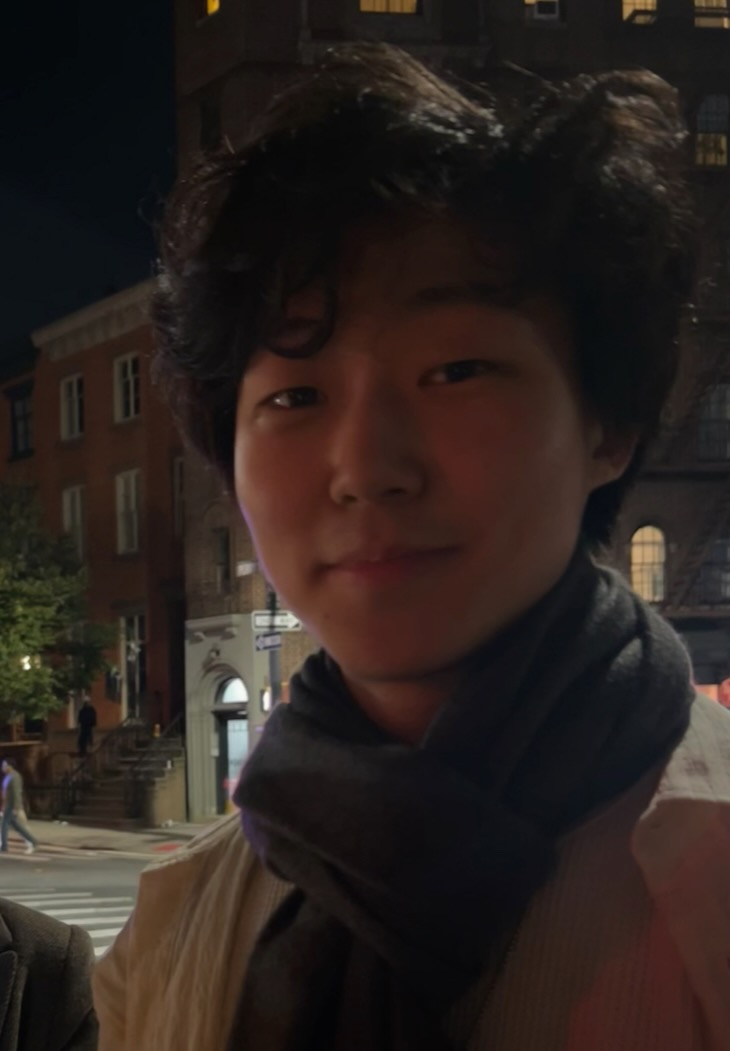
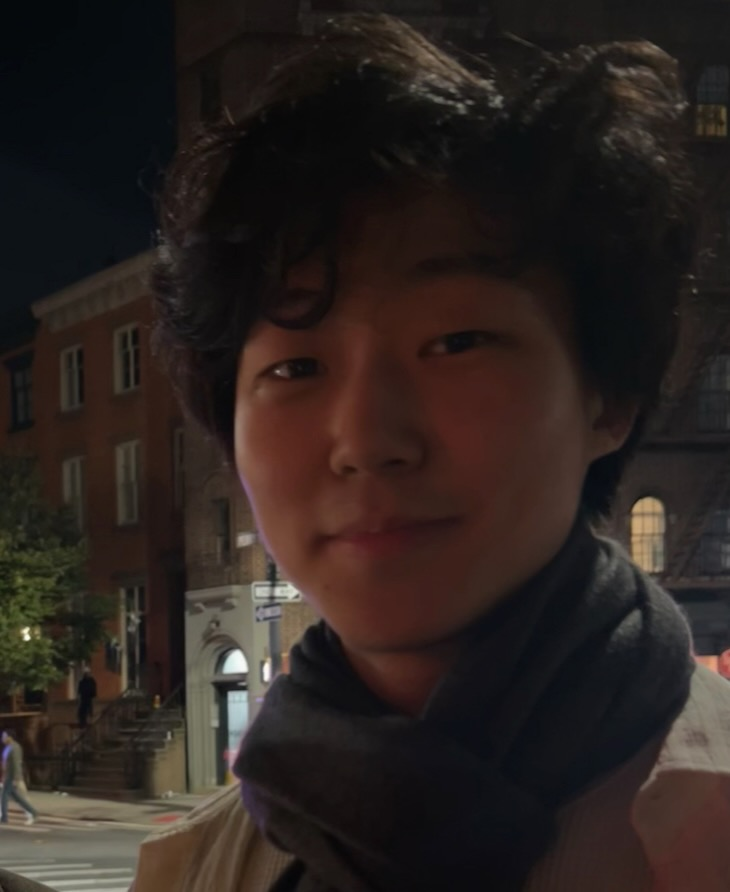
final photo edit and copyright update

diff --git a/index.html b/index.html
@@ -175,7 +175,7 @@
 							<li>Find our <a href="https://yaleconnect.yale.edu/YCYUPianoCollective/club_signup">YaleConnect</a> page!</li>
                         </ul>
 			<ul class="copyright">
-                            <li>&copy; 2024 Yale Undergraduate Piano Collective. All rights reserved.</li>
+                            <li>&copy; 2025 Yale Undergraduate Piano Collective. All rights reserved.</li>
                             <li>Design adapted by Rishi Mirchandani from <a href="http://html5up.net">HTML5 UP</a> </li>
                             <li>Icons by <a href="https://www.flaticon.com/authors/egor-rumyantsev" title="Egor Rumyantsev">Egor Rumyantsev</a> from <a href="https://www.flaticon.com/" title="Flaticon">www.flaticon.com</a> </li>
                         </ul>

diff --git a/performances.html b/performances.html
@@ -281,7 +281,7 @@
                             <li>Send us an <a href="mailto:info@yalepiano.org">email</a></li>
                         </ul>
                         <ul class="copyright">
-                            <li>&copy; 2024 Yale Undergraduate Piano Collective. All rights reserved.</li>
+                            <li>&copy; 2025 Yale Undergraduate Piano Collective. All rights reserved.</li>
                             <li>Design adapted by Rishi Mirchandani from <a href="http://html5up.net">HTML5 UP</a> </li>
                             <li>Icons by <a href="https://www.flaticon.com/authors/egor-rumyantsev" title="Egor Rumyantsev">Egor Rumyantsev</a> from <a href="https://www.flaticon.com/" title="Flaticon">www.flaticon.com</a> </li>
                         </ul>

diff --git a/board.html b/board.html
@@ -179,7 +179,7 @@
                             <li>Send us an <a href="mailto:info@yalepiano.org">email</a></li>
                         </ul>
 			<ul class="copyright">
-                            <li>&copy; 2024 Yale Undergraduate Piano Collective. All rights reserved.</li>
+                            <li>&copy; 2025 Yale Undergraduate Piano Collective. All rights reserved.</li>
                             <li>Design adapted by Rishi Mirchandani from <a href="http://html5up.net">HTML5 UP</a> </li>
                             <li>Icons by <a href="https://www.flaticon.com/authors/egor-rumyantsev" title="Egor Rumyantsev">Egor Rumyantsev</a> from <a href="https://www.flaticon.com/" title="Flaticon">www.flaticon.com</a> </li>
                         </ul>

diff --git a/calendar.html b/calendar.html
@@ -278,7 +278,7 @@
                             <li>Send us an <a href="mailto:info@yalepiano.org">email</a></li>
                         </ul>
 			<ul class="copyright">
-                            <li>&copy; 2024 Yale Undergraduate Piano Collective. All rights reserved.</li>
+                            <li>&copy; 2025 Yale Undergraduate Piano Collective. All rights reserved.</li>
                             <li>Design adapted by Rishi Mirchandani from <a href="http://html5up.net">HTML5 UP</a> </li>
                             <li>Icons by <a href="https://www.flaticon.com/authors/egor-rumyantsev" title="Egor Rumyantsev">Egor Rumyantsev</a> from <a href="https://www.flaticon.com/" title="Flaticon">www.flaticon.com</a> </li>
                         </ul>

diff --git a/join.html b/join.html
@@ -123,7 +123,7 @@
                             <li>Send us an <a href="mailto:info@yalepiano.org">email</a></li>
                         </ul>
 			<ul class="copyright">
-                            <li>&copy; 2024 Yale Undergraduate Piano Collective. All rights reserved.</li>
+                            <li>&copy; 2025 Yale Undergraduate Piano Collective. All rights reserved.</li>
                             <li>Design adapted by Rishi Mirchandani from <a href="http://html5up.net">HTML5 UP</a> </li>
                             <li>Icons by <a href="https://www.flaticon.com/authors/egor-rumyantsev" title="Egor Rumyantsev">Egor Rumyantsev</a> from <a href="https://www.flaticon.com/" title="Flaticon">www.flaticon.com</a> </li>
                         </ul>

diff --git a/about.html b/about.html
@@ -87,7 +87,7 @@
                             <li>Send us an <a href="mailto:info@yalepiano.org">email</a></li>
                         </ul>
 			<ul class="copyright">
-                            <li>&copy; 2024 Yale Undergraduate Piano Collective. All rights reserved.</li>
+                            <li>&copy; 2025 Yale Undergraduate Piano Collective. All rights reserved.</li>
                             <li>Design adapted by Rishi Mirchandani from <a href="http://html5up.net">HTML5 UP</a> </li>
                             <li>Icons by <a href="https://www.flaticon.com/authors/egor-rumyantsev" title="Egor Rumyantsev">Egor Rumyantsev</a> from <a href="https://www.flaticon.com/" title="Flaticon">www.flaticon.com</a> </li>
                         </ul>

diff --git a/support.html b/support.html
@@ -90,7 +90,7 @@
                             <li>Send us an <a href="mailto:info@yalepiano.org">email</a></li>
                         </ul>
 			<ul class="copyright">
-                            <li>&copy; 2024 Yale Undergraduate Piano Collective. All rights reserved.</li>
+                            <li>&copy; 2025 Yale Undergraduate Piano Collective. All rights reserved.</li>
                             <li>Design adapted by Rishi Mirchandani from <a href="http://html5up.net">HTML5 UP</a> </li>
                             <li>Icons by <a href="https://www.flaticon.com/authors/egor-rumyantsev" title="Egor Rumyantsev">Egor Rumyantsev</a> from <a href="https://www.flaticon.com/" title="Flaticon">www.flaticon.com</a> </li>
                         </ul>
